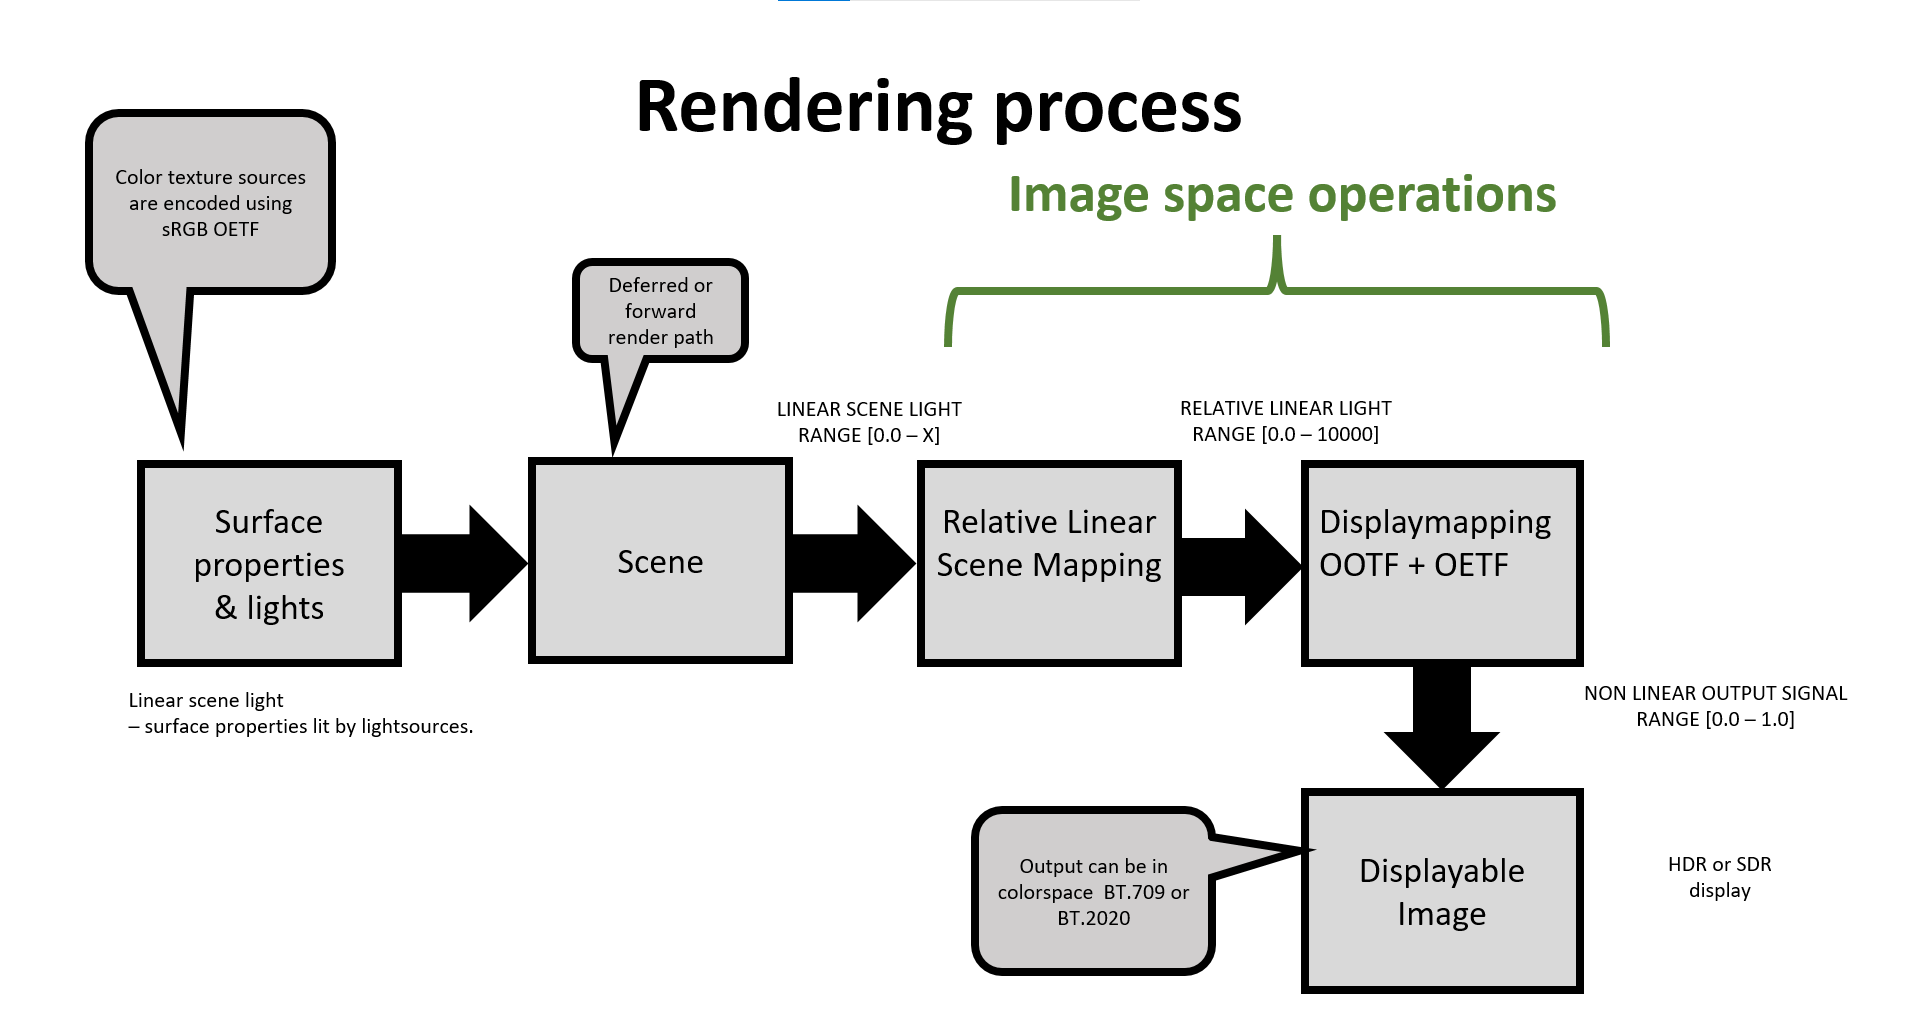
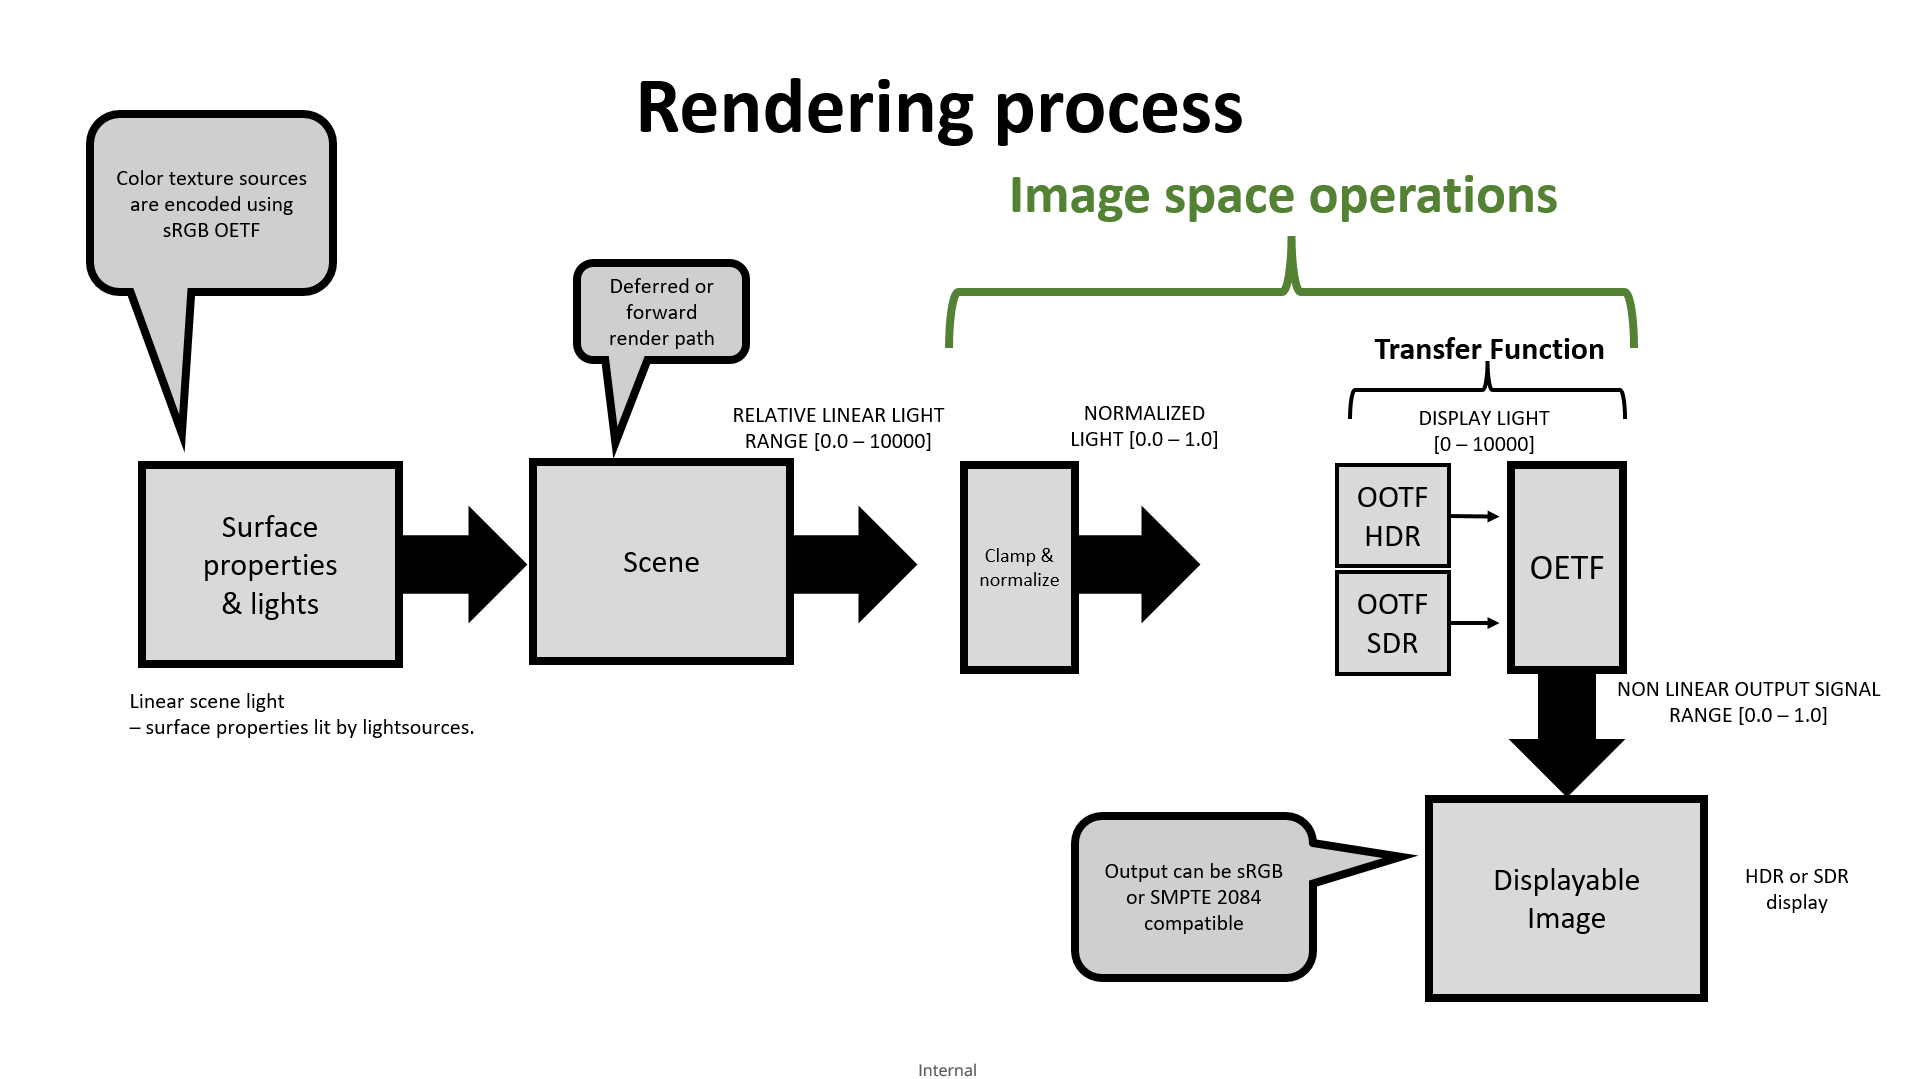
Remove automatic aperture
To simplify the extension and make content creation more intuitive, the max light intensity is limited to 10 000.
Removing the need for scene aperture calculations - replaced with 'clamp & normalize'

Changed region(s): [[0.0309, 0.0613, 0.9874, 1.0], [0.0309, 0.0919, 0.1851, 0.1225]]

diff --git a/extensions/2.0/Khronos/KHR_displaymapping_pq/README.md b/extensions/2.0/Khronos/KHR_displaymapping_pq/README.md
@@ -34,7 +34,7 @@ Produce expected output of multiple glTF models (nodes) that are combined into o
 Provide support for both SDR and HDR displays.  
 Be compatible with updates to glTF texture color spaces, for example increased gamut.  
 
-This is done by specifying a way to map or quantize the resulting (rendered) scene linear light output values to a known range of{R,G,B} values that can be output to display.  
+This is done by specifying a way to map or quantize the resulting (rendered) scene linear light output values to a known range of {R,G,B} values that can be output to display.  
 This mapping shall be done so that hue (or chromaticity) is retained in the displayed image.   
 Output units are declared as candela / m2  
 
@@ -56,7 +56,7 @@ Notice how colors have been clipped and changed hue</em></figcaption>
 
 
 This extension sets out standardize the output from such a scene in a way that the result is predictable, is physically correct and retains hue.    
-When using this extension it is recommended that the light intensity is kept between 0 and 10 000 lumen/m2 in order to utilize the range of the Perceptual Quantizer.  
+When using this extension light intensity shall be kept between 0 and 10 000 lumen/m2. Any light intensity value above 10 000 lumen/m2 will be clamped  
 
 This extension does not declare user defined tone-mapping, s-curve, color lookup table (LUT) or similar as the process of applying these may be non pysically based and alter the energy conserving nature of the glTF BRDF.    
 
@@ -129,8 +129,9 @@ All nodes added to such scene shall use this extension.
 
 ### Integration points
 
-
 This extension has the following integration points:  
+
+**At startup or load-time**
 
 1: Choose display type  
 Decide wether display output and framebuffer format is considered to be HDR or SDR.  
@@ -138,34 +139,34 @@ If unknown then choose SDR.
 [See Display type](#display-type)  
 
 2: Color source images  
-If the display type is considered to be HDR (compatible SMPTE ST 2084) then color source images may need to be converted to ITU BT.2020 colorspace  
+If the display type is considered to be HDR then color source images may need to be converted to ITU BT.2020 colorspace  
 [See Color source images](#color-source-images)  
+
+**During each frame**
 
 The following steps shall be performed before outputing the calculated pixel value (scene linear light).    
 This would normally be done in the fragment shader.  
 
-3: Scene relative linear light  
-Scene linear light (normally fragment shader output value) pixel value shall be scaled to relative linear scene light.          
-The output from this step is used as input in step 4:  
-[See Scene relative light scaling](#scene-reltive-light-scaling)  
-
+3: Clamp and normalize relative scene light  
+Clamp incoming light values to 10 000 and divide by 10 000 to get normalized linear values.  
 
 4: Perceptual Quantizer - reference OOTF  
 Apply opto-optical transfer function (OOTF), this will apply the reference PQ OOTF as defined in Rec.2390    
-This operation will map relative linear scene light values to the same displayed luminance regardless of if output is SDR or HDR monitor.  
-Input values are in normalized relative linear light in range {R,G,B} [0.0 - 1.0] and output values in the range {R,G,B} [0 - 10000]  
+This operation will map linear scene light values to display linear light.  
+Input values are in range {R,G,B} [0.0 - 1.0] and output values in the range {R,G,B} [0 - 10000]    
+[see reference OOTF](#Perceptual-Quantizer-reference-OOTF)  
 
 5:   Perceptural Quantizer - reference OETF  
 Apply the opto-electrical transfer function (OETF).  
-This operation will quantify relative linear scene light to display with minimal amount of banding.  
-Input values are linear values in the range {R,G,B} [0 - 10000] and output is non-linear display values in range {R,G,B} [0.0 - 1.0]  
+This operation will quantify display light to output values with minimal amount of banding.  
+Input values are display linear values in the range {R,G,B} [0 - 10000] and output is non-linear display values in range {R,G,B} [0.0 - 1.0]  
 
 
 
 | Input         |   Function    | Output range  | Description   |
 | ------------- | ------------- | ----------- |------------- |
-| [0.0 - X]     | Relative light      | 0 - 10 000  | Output is relative linear scene light. Maps linear scene light to relative linear scene light |
-| [0.0 - 1.0]   |     OOTF      | 0 - 10 000  | Output is display linear light. Reference PQ OOTF - maps relative linear scene light to display linear light |
+| [0.0 - X] | Clamp & normalize | [0.0 - 1.0] | Output is normalized linear light. Clamps values to be <= 10000 and then divides by 10000 |
+| [0.0 - 1.0]|     OOTF      | [0 - 10 000]  | Output is display linear light. Reference PQ OOTF - maps normalized linear scene light to display linear light |
 | [0 - 10 000]  |     OETF      | [0.0 - 1.0] | Output is nonlinear PQ signal. Framebuffer output - maps linear display light to nonlinear PQ signal value |
 
 
@@ -181,7 +182,7 @@ Overview of where implementations may decide to perform the functions defined by
 
 If, for instance a tone-mapping of LUT type of operation shall be performed it can be done at a stage prior to the perceptual quantizer OETF.    
 Exactly where this is performed will depend on in what space the operations shall be performed.  
-To apply a LUT that is operates on normalized color values [0 - 1], call your function before step 4:  
+To apply a LUT that is operates on normalized color values [0 - 1], call your function after step 3  
 To apply a tonemapper that operates on unadjusted linear scene light, call your function before step 3:  
 
 
@@ -229,7 +230,7 @@ The extension is fully compatible with such usecases</em></figcaption>
 This section describes how light contribution values shall be handled.  
 
 When the KHR_displaymapping_pq extension is used all lighting and pixel calculations shall be done using the value 10000 (cd / m2) as the maximum ouput brightness.    
-Limiting the range of light contribution values to the specified range is done in the Scene quantization step.  
+Limiting the range of light contribution values to the specified range is done as part of the Integration Points.  
 This does not have an impact on color texture sources since they define values as contribution factor.  
 The value 10000 cd / m2 for an output pixel with full brightness is chosen to be compatible with the Perceptual Quantizer (PQ) used in the SMPTE ST 2084 transfer function.  
 
@@ -255,7 +256,7 @@ The below images show 3D Commerce certification models under different illuminat
 
 
 A content creation tool supporting this extension shall sum upp light contribution for a scene before exporting to glTF, this can be a naive addition of all lights included in the scene that adds max values together.  
-If scene max light contribution intensity is above 10000 there is a choice to downscale light values before export.  
+If scene max light contribution intensity is above 10000 there may be a choice to downscale or clamp light values before export..
 
 
 ## Display type
@@ -309,65 +310,14 @@ The M2 linear color conversion matrix is defined as:
 0.0164 0.0880 0.8956  
 
 
-## Scene relative light scaling
-
-
-Scene relative light scaling can be seen as an automatic aperture factor..
-In this step the continous scene light values, in the range [0 - X] are linearly mapped to relative light in the range [0 - 10000].  
-
-If total scene light contribution is > 10 000 all lightsources will be down-scaled.  
-Scaling all lightsources linearly means that the light energy contrast will be retained between the lowest and the highest energy lightsource.  
-
-It is not intended for gaming like usecases where the viewpoint and environment changes dramitically, for instance from dimly lit outdoor night environments to a highly illuminated hallway.  
-
-This function performed to avoid clipping of values before they are passed to the perceptual quantizer OETF.    
-
-**Implementation Notes**
-
-pseudocode for scene quantization - here called aperture.
-This may be performed at beginning of each frame and passing the factor as a uniform.   
-
-Where `lightIn` is the max scene or frame light contribution, ie the scene max intensity value.  
-
-`lightIn = max(max(light.r, light.g), light.b)`  
-`float maxComponent = 10000`  
-
-Once per frame, calculate aperture 'factor' and pass to shader as uniform.  
-
-```
-float aperture(float lightIn) {
-	float value = min(lightIn, maxComponent) 
-	float factor = value / lightIn
-	return factor;
-}	
-
-float factor = aperture(lightIn);
-
-```
-
-Fragment shader code performed before passing apertureAdjustedColor BT_2100_OOTF.
-
-```
-uniform float factor;
-
-vec3 apertureAdjustedColor = color * `factor`
-
-```
-
-Since knowledge of overall scene brightness values may be time-consuming to calculate exactly, implementations are free to approximate.  
-This could be done by calculating the max scene value once, adding up punctual and environment lights and then using this value, not taking occlusion of lightrays into account.  
-This value can be used until light contribution changes.  
-
-
-
 ## Perceptual Quantizer - reference OOTF
 
 
 Opto-optical-transfer-function  
-Input signal to the OOTF is the scene linear light. The OOTF maps relative scene linear light to display linear light.  
-For more information see the ITU BT.2100 specification.  
+Input signal to the OOTF is the relative scene linear light. The OOTF maps scene linear light to display linear light.  
+For more information see the 'Reference PQ OOTF' in ITU BT.2100 and 'OOTF' in ITU BT.2390.  
 
-Resulting linear scene light values (the pixel output) shall be mapped according to the parameter `Reference PQ OOTF` of ITU BT.2100 by applying the transform.   
+Relative scene linear light values (the pixel output) shall be mapped according to the parameter `Reference PQ OOTF` of ITU BT.2100 by applying the transform.  
 The reference transform compatible with both SDR and HDR displays is described in ITU BT.2390 with the use of range extension and gamma values.  
 
 ```
@@ -378,7 +328,7 @@ FD = G1886[E'] = pow(100 E′, gamma)
 
 
 E {R, G, B} is the linear scene light value.  
-Passed to the OOTF these values shall be in the range [0.0 - 1.0]  
+FD is the display light value that shall be passed to the OETF
 
 Where the rangeExtension and gamma values shall be set according to HDR or SDR display.  
 
@@ -397,13 +347,13 @@ gamma = 2.4
 
 **Implementation Notes** 
 
-At the stage prior to OOTF, values shall be quantized using the aperture factor.   
+At the stage prior to OOTF, values shall be clamped to 10 000 and normalized.  
 
-Depending on implementation of OOTF and OETF, RGB values may simply be scaled by 10000 before used in the OOTF.  
 
 Pseudocode for BT.2100 reference OOTF  
 
-`color`is in range [0.0 - 1.0]  
+`color` in the BT_2100_OOTF function is in range [0.0 - 1.0]    
+`sceneColor` is the calculated pixel value from the BRDF.  
 
 ```
 //Note the BT 2100 specification includes a check for [RGB] values <= 0.0003024
@@ -415,8 +365,8 @@ vec3 BT_2100_OOTF(vec3 color, rangeExponent, gamma) {
     return 100 * pow(nonlinear, gamma);
 }  
 
-vec3 color = apertureAdjustedColor / 10000;
-color = BT_2100_OOTF(color, rangeExponent, gamma);
+vec3 clampedNormalizedColor = clamp(10000, sceneColor) / 10000;
+displayColor = BT_2100_OOTF(clampedNormalizedColor, rangeExponent, gamma);
 
 ```
 
@@ -436,7 +386,7 @@ Where the resulting non-linear signal (R,G,B) in the range [0:1] = E
 ```
 E = ((C1 + C2 * pow(FD / 10000, m1)) / (1 + C3 * pow(FD / 10000, m1))  ^ m2 
 
-FD = output from the OOTF  
+FD = displayColor (output from the OOTF)  
 m1 = 2610/16384 = 0.1593017578125 
 m2 = 2523/4096 * 128 = 78.84375 
 c1 = 3424/4096 =0.8359375 = c3 − c2 + 1
@@ -456,6 +406,9 @@ BT_2100_OETF(vec3 color) {
     Ypow = pow(rgb / 10000, m1);
     return pow((c1 + c2 * Ypow) / (1 + c3 * Ypow), m2); 
 }
+
+vec3 outputColor = BT2100_OETF(displayColor);
+
 ```
 
 
